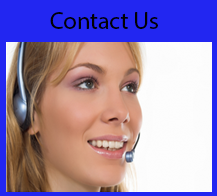
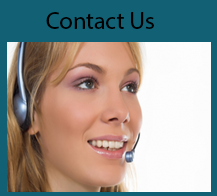
change the colour of "contact us" menu option as the one before did not contrast well with the text colour

Changed region(s): [[0.0, 0.0, 1.0, 1.0]]

diff --git a/CCF2/CCF2/HomePage.xaml b/CCF2/CCF2/HomePage.xaml
@@ -29,7 +29,7 @@
         <!--Grid containind the six different input blocks-->
         <Viewbox Margin="283.493,247.186,282.846,151.814" Stretch="Fill">
             <Grid Height="597" Width="1197.661">
-                <s:SurfaceButton  HorizontalAlignment="Left" Height="260" VerticalAlignment="Top" Width="330" d:LayoutOverrides="VerticalAlignment" Click="WhatWeDo_Click" Background="#FFFF9F80">
+                <s:SurfaceButton  HorizontalAlignment="Left" Height="260" VerticalAlignment="Top" Width="330" d:LayoutOverrides="VerticalAlignment" Click="WhatWeDo_Click" Background="#FFF88E1D">
                     <Image  Source="Resources/images/Menu/WhatWeDo1.PNG" HorizontalAlignment="Left" Height="Auto" VerticalAlignment="Center" Width="Auto" Stretch="Fill"/>
                     <s:SurfaceButton.Effect>
                         <DropShadowEffect/>
@@ -59,7 +59,7 @@
                         <DropShadowEffect/>
                     </s:SurfaceButton.Effect>
                 </s:SurfaceButton>
-                <s:SurfaceButton HorizontalAlignment="Right" Height="260" Margin="0,337,0,0" VerticalAlignment="Top" Width="330" Click="ContactUs_Click" Background="#FF2226F1">
+                <s:SurfaceButton HorizontalAlignment="Right" Height="260" Margin="0,337,0,0" VerticalAlignment="Top" Width="330" Click="ContactUs_Click" Background="#FF116074">
                     <Image  Source="Resources/images/Menu/ContactUs1.PNG" HorizontalAlignment="Left" Height="Auto" VerticalAlignment="Center" Width="Auto" Stretch="Fill"/>
                     <s:SurfaceButton.Effect>
                         <DropShadowEffect/>
